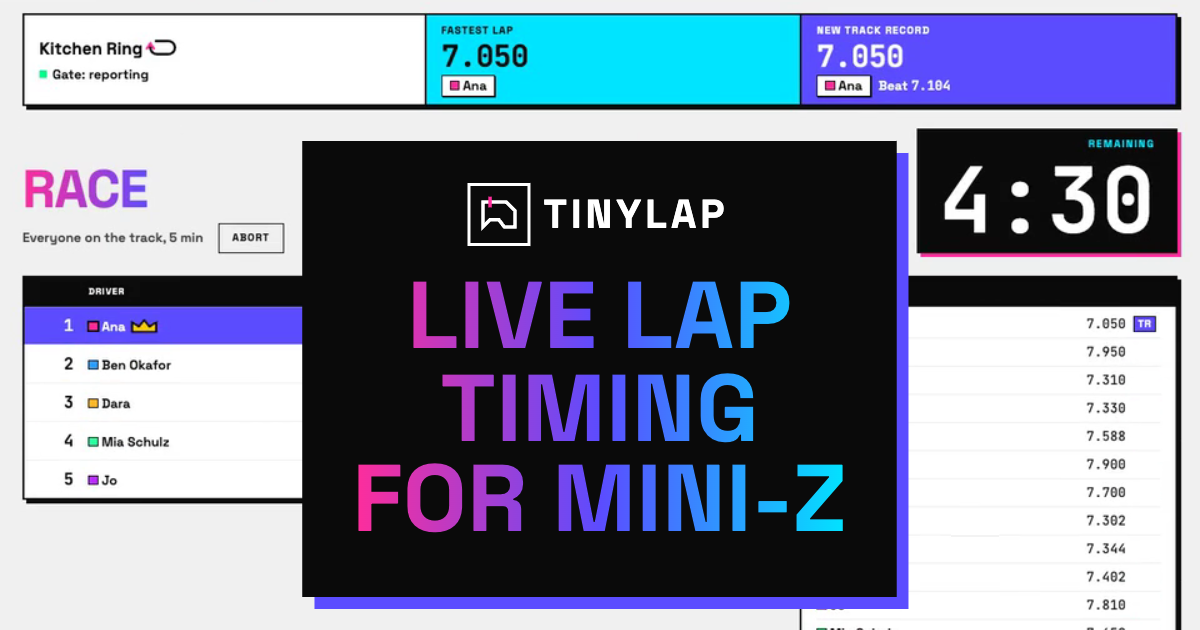
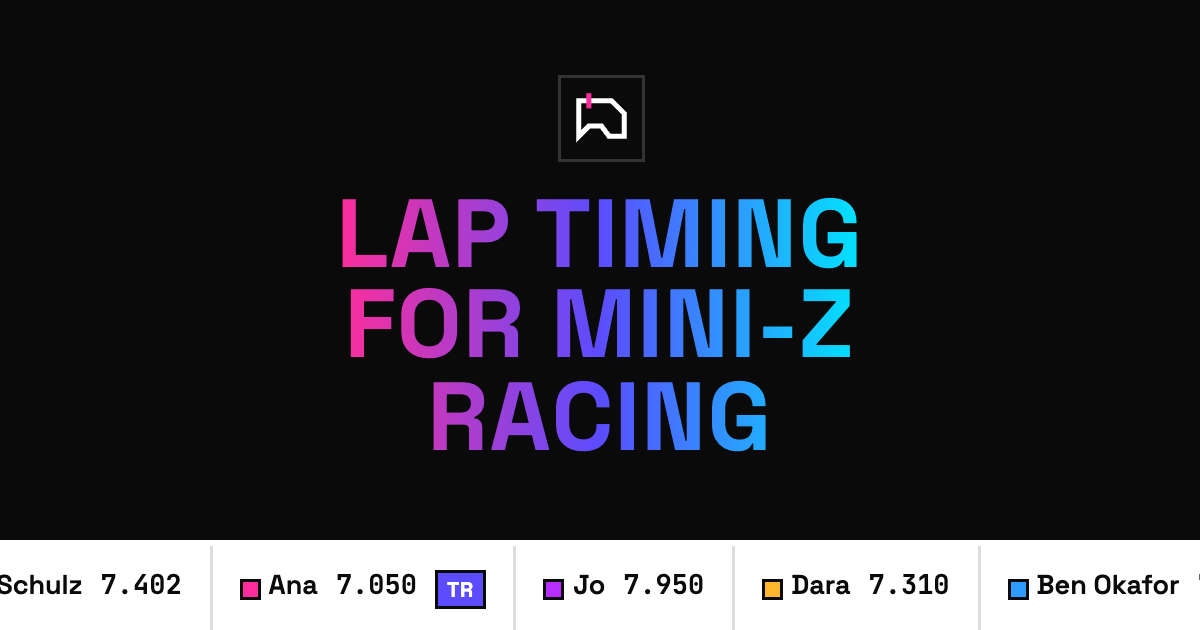
feat(site): lap timing for mini-z racing, and a link preview no crop can throw off (#164)

diff --git a/apps/site/share/card.html b/apps/site/share/card.html
@@ -8,30 +8,70 @@
 <style>
 /*
   The link preview (og:image), laid out at 400 x 210, the size previews show
-  it, and rendered at 3x to 1200 x 630: the race board behind, and the
-  name and headline on a slab in the middle, which a square crop keeps whole.
-  Rendered to share.png by render.js, inside a built site.
+  it, and rendered at 3x to 1200 x 630 by render.js, inside a built site.
+  Black edge to edge, so no app's crop can look off-centre; the headline in
+  the middle; last laps along the bottom, running off both edges. A new card
+  needs a new ?v= on og:image in index.html, because previews cache by URL.
 */
 html, body { margin: 0; width: 400px; height: 210px; overflow: hidden; }
-body { position: relative; background: var(--p-bg) url('media/walkthrough-poster.png') no-repeat; background-size: 400px 250px; background-position: 0 -19.33px; }
-/* Hides the recording's pointer dot on the last-laps list of this poster;
-   check it again when the poster is recorded anew. */
-.patch { position: absolute; left: 316.67px; top: 170.67px; width: 16.67px; height: 15.33px; background: linear-gradient(#fff 0 7.33px, #f3f3f3 7.33px 8px, #fff 8px); }
-.slab { position: absolute; left: 50%; top: 47.33px; transform: translateX(-50%); width: max-content; box-sizing: border-box;
-  padding: 12.67px 14.67px 14.67px; background: var(--p-dark); border: var(--p-border-width) solid var(--p-dark);
-  box-shadow: var(--p-shadow-lg) var(--p-accent-2);
-  display: flex; flex-direction: column; align-items: center; gap: 9.33px; text-align: center; }
-.lockup { display: flex; align-items: center; gap: 5.33px; }
-.lockup img { width: 18.67px; height: 18.67px; display: block; outline: var(--p-border-thin) solid var(--p-text-on-fill); }
-.lockup span { font-size: 13.33px; font-weight: 700; letter-spacing: 1.33px; text-transform: uppercase; color: var(--p-text-on-fill); line-height: 1; }
-.slab h1 { white-space: nowrap; font-size: 31.33px; line-height: 0.98; letter-spacing: 0.33px; margin: 0; }
+body {
+  --strip: 30px;
+  position: relative; background: var(--p-dark); color: var(--p-text-on-fill);
+  font-family: var(--p-font);
+}
+
+/* The headline block: centred over the space above the strip, and narrow
+ * enough to stay inside the middle 470 × 470 output px (157 CSS px) of any crop. */
+.hero {
+  position: absolute; left: 0; right: 0; top: 0; bottom: var(--strip);
+  display: flex; flex-direction: column; align-items: center; justify-content: center;
+  gap: 10px; text-align: center;
+}
+.hero img { width: 27px; height: 27px; display: block; outline: var(--p-border-thin) solid var(--p-border-dark); }
+.hero h1 { margin: 0; font-size: 32px; line-height: 0.94; letter-spacing: 0.5px; white-space: nowrap; }
+
+/* Last laps, as the board's feed: palace's light surface, a name with its
+ * colour square, the time in mono, a TR mark; one row running off both edges. */
+.laps {
+  position: absolute; left: -38px; bottom: 0; height: var(--strip);
+  display: flex; align-items: stretch; margin: 0; padding: 0; list-style: none;
+  background: var(--p-surface); color: var(--p-text);
+  border-top: var(--p-border-width) solid var(--p-surface);
+  box-sizing: border-box; white-space: nowrap; font-size: 9px;
+}
+.laps li {
+  display: flex; align-items: center; gap: 6px; padding: 0 9px;
+  border-right: var(--p-border-thin) solid var(--p-border);
+}
+.laps .driver { font-weight: 600; display: flex; align-items: center; }
+.laps .driver::before {
+  content: ''; width: 7px; height: 7px; margin-right: 3px;
+  background: var(--driver); border: var(--p-border-thin) solid var(--p-text);
+}
+.laps .num { font-family: var(--p-font-mono); font-weight: 600; font-variant-numeric: tabular-nums; }
+.laps .mark {
+  font: 700 7px/1 var(--p-font); letter-spacing: 0.04em; padding: 2px 3px;
+  border: var(--p-border-thin) solid var(--p-text);
+  background: var(--tl-record); color: var(--tl-record-ink);
+}
 </style>
 </head>
-<body role="img" aria-label="TinyLap: live lap timing for Mini-Z, over the race board of a race with a new track record">
-<div class="patch"></div>
-<div class="slab">
-  <div class="lockup"><img src="mark.svg" alt=""><span>TinyLap</span></div>
-  <h1 class="h1-hero">Live lap<br>timing<br>for Mini-Z</h1>
+<body role="img" aria-label="TinyLap: lap timing for Mini-Z racing, over a strip of last laps with a new track record">
+<div class="hero">
+  <img src="mark.svg" alt="">
+  <h1 class="h1-hero">Lap timing<br>for Mini-Z<br>racing</h1>
 </div>
+<ul class="laps" aria-hidden="true">
+  <li><span class="driver" style="--driver: #2dff9b">Mia Schulz</span><span class="num">7.402</span></li>
+  <li><span class="driver" style="--driver: var(--p-accent-1)">Ana</span><span class="num">7.050</span><span class="mark">TR</span></li>
+  <li><span class="driver" style="--driver: #b82dff">Jo</span><span class="num">7.950</span></li>
+  <li><span class="driver" style="--driver: #ffb82d">Dara</span><span class="num">7.310</span></li>
+  <li><span class="driver" style="--driver: #2d9bff">Ben Okafor</span><span class="num">7.330</span></li>
+  <li><span class="driver" style="--driver: #2dff9b">Mia Schulz</span><span class="num">7.588</span></li>
+  <li><span class="driver" style="--driver: #b82dff">Jo</span><span class="num">7.900</span></li>
+  <li><span class="driver" style="--driver: #2dff9b">Mia Schulz</span><span class="num">7.700</span></li>
+  <li><span class="driver" style="--driver: #ffb82d">Dara</span><span class="num">7.302</span></li>
+  <li><span class="driver" style="--driver: #2d9bff">Ben Okafor</span><span class="num">7.344</span></li>
+</ul>
 </body>
 </html>

diff --git a/apps/site/index.html b/apps/site/index.html
@@ -7,13 +7,13 @@
 <meta name="description" content="Every lap shows up on the laptop, the phones in the pits and the TV on the wall, with personal bests and track records as they happen.">
 <meta property="og:type" content="website">
 <meta property="og:site_name" content="TinyLap">
-<meta property="og:title" content="TinyLap: live lap timing for Mini-Z">
+<meta property="og:title" content="TinyLap: lap timing for Mini-Z racing">
 <meta property="og:description" content="Every lap shows up on the laptop, the phones in the pits and the TV on the wall, with personal bests and track records as they happen.">
 <meta property="og:url" content="https://tinylaphq.github.io/tinylap/">
-<meta property="og:image" content="https://tinylaphq.github.io/tinylap/share.png">
+<meta property="og:image" content="https://tinylaphq.github.io/tinylap/share.png?v=2">
 <meta property="og:image:width" content="1200">
 <meta property="og:image:height" content="630">
-<meta property="og:image:alt" content="TinyLap: live lap timing for Mini-Z, over the race board of a race with a new track record">
+<meta property="og:image:alt" content="TinyLap: lap timing for Mini-Z racing, over a strip of last laps with a new track record">
 <meta name="twitter:card" content="summary_large_image">
 <link rel="icon" href="mark.svg">
 <link rel="stylesheet" href="palace.css">
@@ -49,13 +49,14 @@
     align-items: center;
     padding: var(--p-space-2xl) 0 var(--section);
   }
-  .hero .words { grid-column: 1 / span 5; }
+  .hero .words { grid-column: 1 / span 5; container-type: inline-size; }
   .hero h1 {
-    font-size: calc(var(--p-text-4xl) * 2.1);
+    /* As big as palace's display size allows, never wider than its column. */
+    font-size: min(calc(var(--p-text-4xl) * 2.1), 18.5cqi);
     line-height: 0.95;
     letter-spacing: 0;
   }
-  /* Three lines, broken by sense: what, what, for whom. */
+  /* Three lines: what, and what for. */
   .hero h1 span { display: block; }
   .hero .lead { margin-top: var(--p-space-lg); font-size: var(--p-text-xl); line-height: var(--p-leading-prose); color: var(--p-text); text-wrap: pretty; }
   .hero .where { margin-top: var(--p-space-sm); font-size: var(--p-text-lg); color: var(--p-text-secondary); }
@@ -180,7 +181,6 @@
   @media (max-width: 960px) {
     .hero { grid-template-columns: minmax(0, 1fr); row-gap: var(--p-space-2xl); }
     .hero .words, .board { grid-column: 1 / -1; }
-    .hero h1 { font-size: calc(var(--p-text-4xl) * 1.8); }
     .hero .words { max-width: 36em; }
     .need { grid-template-columns: minmax(0, 1fr); row-gap: var(--p-space-xl); }
     .need .words, .need figure { grid-column: 1 / -1; }
@@ -198,7 +198,7 @@
     :root { --gutter: 16px; --inset: var(--p-space-lg); --section: calc(var(--p-space-2xl) + var(--p-space-md)); }
     .top { padding: var(--p-space-md) 0; }
     .hero { padding-top: var(--p-space-xl); row-gap: var(--p-space-xl); }
-    .hero h1 { font-size: calc(var(--p-text-4xl) * 1.2); line-height: 1; }
+    .hero h1 { line-height: 1; }
     .hero .lead { margin-top: var(--p-space-lg); font-size: var(--p-text-lg); }
     .hero .where { font-size: var(--p-text-md); }
     .hero .actions { margin-top: var(--p-space-lg); }
@@ -229,7 +229,7 @@
 
   <section class="hero" aria-labelledby="title">
     <div class="words">
-      <h1 class="h1-hero" id="title"><span>Live lap</span> <span>timing</span> <span>for Mini-Z</span></h1>
+      <h1 class="h1-hero" id="title"><span>Lap timing</span> <span>for Mini-Z</span> <span>racing</span></h1>
       <p class="lead">Every lap shows up on the laptop, the phones in the pits and the TV on the wall, with personal bests and track records as they happen.</p>
       <p class="where">On a track at home, or as your club's timing system.</p>
       <div class="actions"><a class="cta cta-primary" href="https://github.com/tinylaphq/tinylap/blob/main/README.md#timing">Set up Timing</a></div>

diff --git a/apps/site/test/build.test.js b/apps/site/test/build.test.js
@@ -69,6 +69,11 @@ test('github appears once', () => {
   assert.equal(values('href').filter((h) => h.startsWith('https://github.com/') && !h.startsWith(BLOB)).length, 1);
 });
 
+test('the headline says what it is, in three lines', () => {
+  const h1 = html.match(/<h1[^>]*>(.*?)<\/h1>/)?.[1] ?? '';
+  assert.deepEqual([...h1.matchAll(/<span>([^<]*)<\/span>/g)].map((m) => m[1]), ['Lap timing', 'for Mini-Z', 'racing']);
+});
+
 test('the hero film is described as the README describes it', () => {
   const readme = readFileSync(new URL('README.md', REPO), 'utf8');
   const alt = readme.match(/!\[([^\]]+)\]\(docs\/walkthrough\.gif\)/)?.[1];
@@ -78,11 +83,12 @@ test('the hero film is described as the README describes it', () => {
 test('link previews get a title, a description and the share card', () => {
   /** @param {string} key */
   const meta = (key) => html.match(new RegExp(`<meta (?:property|name)="${key}" content="([^"]*)">`))?.[1];
-  assert.equal(meta('og:title'), 'TinyLap: live lap timing for Mini-Z');
+  assert.equal(meta('og:title'), 'TinyLap: lap timing for Mini-Z racing');
   assert.equal(meta('og:description'), meta('description'));
   assert.equal(meta('og:url'), 'https://tinylaphq.github.io/tinylap/');
   assert.equal(meta('og:type'), 'website');
-  assert.equal(meta('og:image'), 'https://tinylaphq.github.io/tinylap/share.png');
+  // Bump ?v= with every new card: previews cache an image by its URL.
+  assert.equal(meta('og:image'), 'https://tinylaphq.github.io/tinylap/share.png?v=2');
   assert.equal(meta('og:image:width'), '1200');
   assert.equal(meta('og:image:height'), '630');
   assert.ok(meta('og:image:alt'));

diff --git a/docs/superpowers/specs/2026-11-20-link-preview-design.md b/docs/superpowers/specs/2026-11-20-link-preview-design.md
@@ -7,21 +7,26 @@ Signal, iMessage, LinkedIn and X. They all read Open Graph tags, and without
 ## How it works
 
 - `apps/site/index.html` carries `og:type`, `og:site_name`, `og:title`
-  ("TinyLap: live lap timing for Mini-Z"), `og:description` (the page's
+  ("TinyLap: lap timing for Mini-Z racing"), `og:description` (the page's
   description), `og:url`, `og:image` with its width, height and alt text, and
   `twitter:card` set to `summary_large_image`. The image and page URLs are
   absolute (`https://tinylaphq.github.io/tinylap/…`), because previews don't
   resolve relative ones.
-- The card is 1200 × 630, the size every preview crops from. The race board
-  (the hero's poster) fills it, and the mark, the name and the headline sit on
-  a black slab in the middle with a purple offset shadow, inside the centre
-  630 px, so WhatsApp's square crop keeps them whole.
+- The card is 1200 × 630, the size every preview crops from. Apps crop it
+  differently and not always around the middle (Teams to about 4:3, a little
+  left of centre; WhatsApp to a square), so it is black edge to edge, with the
+  mark and the headline in the middle and a strip of last laps along the bottom
+  that runs off both edges. No crop can make it look off-centre. The name is
+  left out: at thumbnail size it can't be read, and every app prints the title
+  beside the image.
+- `og:image` carries `?v=` with the card's version. Previews cache an image by
+  its URL, so a new card gets the next number.
 - `apps/site/share/card.html` is the card, laid out with the page's own palace,
   fonts and poster. `apps/site/share/render.js` builds the site into a temporary
-  folder, opens the card there in Chrome and writes `apps/site/share.png`,
-  which is committed. It is run by hand when the card or the poster changes;
-  the card hides the recording's pointer dot on this poster's last-laps list,
-  so a new poster needs that patch checked.
+  folder, opens the card there in Chrome at 3× and writes
+  `apps/site/share.png`, which is committed. The card is laid out at 400 × 210,
+  the size previews show it, so palace's own sizes and shadows apply. It is run
+  by hand when the card changes.
 - The build copies `share.png` into `dist/`. A test checks the tags, that the
   image is 1200 × 630, and that it stays under 300 KB, above which WhatsApp
   leaves it out.
@@ -34,3 +39,5 @@ Signal, iMessage, LinkedIn and X. They all read Open Graph tags, and without
   name.
 - **The card with words left and board right:** calmer, but a square crop cuts
   the headline.
+- **The headline on a black slab over the race board:** the board's edges show
+  any off-centre crop, and the name on it was too small to read.

diff --git a/docs/superpowers/specs/2026-11-20-landing-page-design.md b/docs/superpowers/specs/2026-11-20-landing-page-design.md
@@ -43,8 +43,10 @@ phone, with a 16 px gutter and no horizontal scroll.
 1. **Header:** the TinyLap mark and name; a GitHub button
    (https://github.com/tinylaphq/tinylap).
 2. **Hero, split:**
-   - Left, columns 1–5: the headline "Live lap timing for Mini-Z" in palace's
-     pink-to-cyan display treatment; "Every lap shows up on the laptop, the
+   - Left, columns 1–5: the headline "Lap timing for Mini-Z racing" in three
+     lines (Lap timing / for Mini-Z / racing), in palace's pink-to-cyan display
+     treatment, as big as palace's display size allows and never wider than its
+     column; "Every lap shows up on the laptop, the
      phones in the pits and the TV on the wall, with personal bests and track
      records as they happen."; "On a track at home, or as your club's timing
      system."; a primary "Set up Timing" button.
